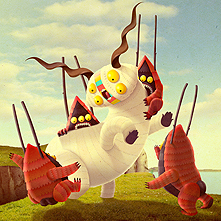
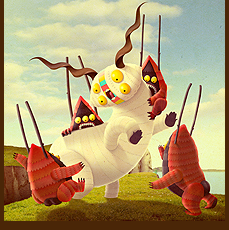
fix: remove the empty area in portfolio img by adding edited img and change position

diff --git a/hexal/css/sections/portfolio.css b/hexal/css/sections/portfolio.css
@@ -80,7 +80,7 @@
 }
 
 .hexagon-img4 {
-  background: #4a2607 url("../../assets/portfolio/hexagon-img-4.png") no-repeat 48% 122%;
+  background: url("../../assets/portfolio/hexagon-img-4.png") no-repeat 48% 76%;
 }
 
 .hexagon-img5 {
